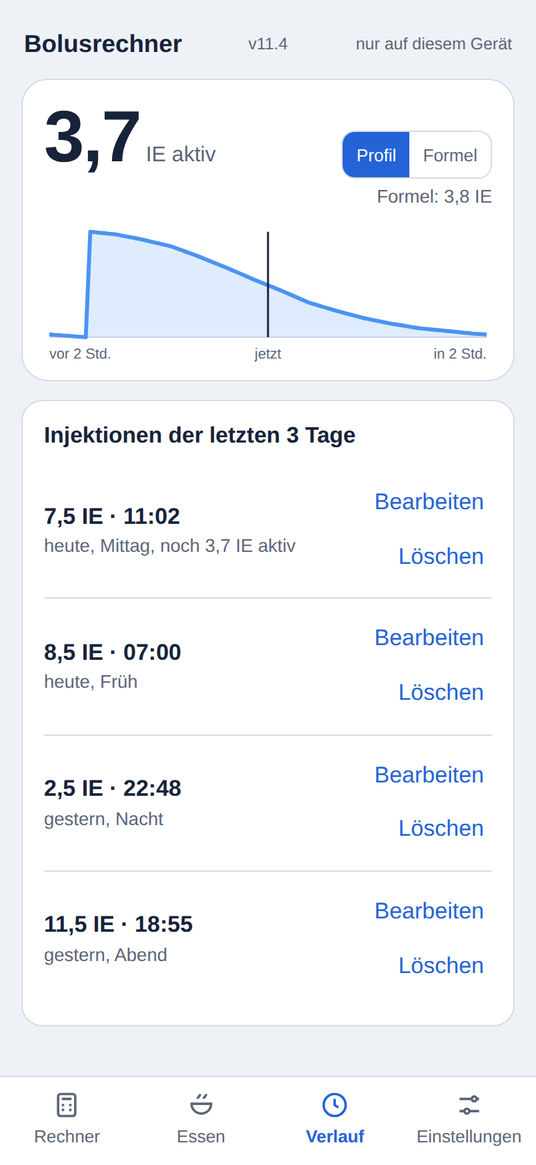
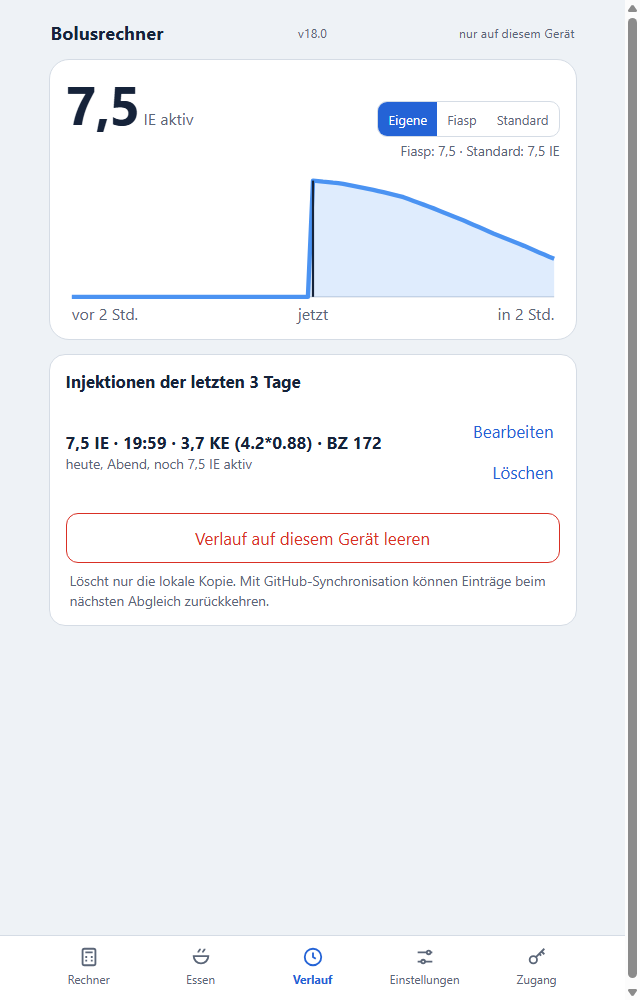
v18.0 + Doku

diff --git a/README.md b/README.md
@@ -11,7 +11,11 @@ Bolusrechner für schnell wirksames Insulin als Web-App für das iPhone. Läuft 
 |:---:|:---:|:---:|:---:|
 | <img src="screenshots/1-rechner.png" width="200" alt="Rechner mit Bolusvorschlag"> | <img src="screenshots/2-essen.png" width="200" alt="Mahlzeit zusammenstellen"> | <img src="screenshots/3-verlauf.png" width="200" alt="Verlauf der Injektionen"> | <img src="screenshots/4-einstellungen.png" width="200" alt="Insulin/Kohlenhydrat-Verhältnisse und Einstellungen"> |
 
-*Beispieldaten: 7,5 IE um 11:02, Abfrage um 12:40, BZ 172, KE als Formel `4,2*0,88`.*
+*Die Bilder zeigen Beispieldaten, keine persönlichen Werte. Im Rechnerbeispiel: BZ 172 mg/dl und KE-Formel `4,2*0,88`.*
+
+**Carb-API-Konfiguration importieren (Beispielseite):**
+
+<img src="screenshots/5-carb-import.png" width="480" alt="Import der lokalen Carb-API-Konfiguration mit Passwortfeld">
 
 ## Funktionen
 
@@ -28,10 +32,19 @@ Bolusrechner für schnell wirksames Insulin als Web-App für das iPhone. Läuft 
 - **Insulin/Kohlenhydrat-Verhältnisse** je Tageszeit frei benennbar, hinzufügen/entfernen, automatische Auswahl nach Uhrzeit
 - **KE-Eingabe mit Formeln**, z. B. `4,2*0,88`; verwendete Formeln werden mit dem Eintrag gespeichert, in der Historie angezeigt und auf andere Geräte synchronisiert
 - **Lebensmittelliste**, Mahlzeiten-Korb und Rezeptrechner (KE pro Stück)
-- **Verlauf** mit einstellbarer Aufbewahrung (Einstellungen → Verlauf, Standard 3 Tage, bis 365)
+- **Carb-Scanner** zur Erkennung von Kohlenhydraten aus Fotos; dieselbe Scanner-Logik wird von der App und der [Beispielseite](app-beispiel-v3.html) verwendet
+- **Verlauf** mit einstellbarer Aufbewahrung (Einstellungen → Verlauf, Standard 3 Tage, bis 365); „Verlauf auf diesem Gerät leeren“ löscht nur die lokale Kopie. Synchronisierte Einträge können beim nächsten Abgleich zurückkehren
 - **Synchronisation** zwischen Geräten über ein privates GitHub-Repository (Tab **Zugang** – Zugangsdaten sind getrennt von den gesicherten Daten)
 - **Glukose-Sensor** über eigenen REST-Dienst: Anzeige mit Trendpfeil, automatische Übernahme als BZ
-- **Sicherung** aller Daten als JSON-Datei (z. B. nach OneDrive), Wiederherstellen per Datei
+- **Datensicherung** der App-Daten als JSON-Datei (z. B. nach OneDrive), Wiederherstellen per Datei
+- **Browser-Speicher-Sicherung** optional verschlüsselt; daraus lassen sich auf der Beispielseite nur die Carb-API-Schlüssel übernehmen oder in der App die komplette lokale Konfiguration ersetzen
+
+## Sicherung und Import
+
+- **Normale Datensicherung** (Einstellungen → Sicherung) enthält App-Daten wie Einstellungen, Lebensmittel und Verlauf. API-Konfiguration und Zugangsdaten sind darin nicht enthalten.
+- **Browser-Speicher-Sicherung** (Zugang → Lokaler Browser-Speicher) exportiert alle lokalen Speicherwerte einschließlich Carb-API-Schlüsseln und Synchronisations-Zugangsdaten. Mit einem Passwort wird die Sicherung verschlüsselt; ohne Passwort ist die JSON-Datei unverschlüsselt.
+- **Selektiver Carb-Import:** `app-beispiel-v3.html` liest eine Browser-Speicher-Sicherung und übernimmt daraus nur die Carb-API-Konfiguration. Andere lokale Daten bleiben unverändert. Eine normale Datensicherung enthält diese Schlüssel nicht.
+- **Kompletter Import:** Die Wiederherstellung des Browser-Speichers in der App ersetzt den gesamten lokalen Speicher dieses Geräts. Dabei werden bestehende Einträge und Zugangsdaten durch die Inhalte der Sicherung ersetzt.
 
 ## Synchronisation zwischen Geräten (GitHub)
 
@@ -145,8 +158,14 @@ Werte älter als 15 Minuten werden grau dargestellt und nicht mehr in den Rechne
 
 | Datei | Zweck |
 |---|---|
-| `index.html` | die komplette App (HTML, CSS, JavaScript) |
-| `sw.js` | Service Worker für den Offline-Betrieb |
+| `index.html` | App-Struktur und Bereiche |
+| `app.js` | Rechner, Verlauf, Synchronisation und App-Verhalten |
+| `storage.js` | lokales Speichern, Carb-API-Konfiguration und Backup-Import |
+| `bolus-theme.css` | gemeinsames Erscheinungsbild für App und Beispielseite |
+| `carb-scanner-v3.js` | wiederverwendbare Carb-Scanner-Logik |
+| `carb-dialog-v3.html` | Dialog des Carb-Scanners |
+| `app-beispiel-v3.html` | Integration des Scanners und selektiver Import der Carb-API-Konfiguration |
+| `sw.js` | Service Worker und Precache für den Offline-Betrieb |
 | `manifest.webmanifest` | Name und Symbol für den Home-Bildschirm |
 | `icon-*.png` | App-Symbole |
 | `screenshots/` | Bilder für diese README (werden von der App nicht benötigt) |
@@ -161,31 +180,31 @@ Werte älter als 15 Minuten werden grau dargestellt und nicht mehr in den Rechne
 
 ## Neue Version veröffentlichen
 
-1. Änderungen an `index.html` vornehmen.
-2. In `index.html` die Versionsnummer anpassen: `var APP_VERSION = "11";`
-   - **neue Funktionen:** nächste ganze Zahl, z. B. `"11"` → `"12"`
-   - **Fehlerkorrekturen:** Unterversion, z. B. `"11"` → `"11.1"` → `"11.2"`
-   Die Nummer wird oben in der App angezeigt und sorgt dafür, dass das iPhone die neue Fassung lädt
-   (`sw.js` muss dafür nicht geändert werden).
-3. Commit und Push. GitHub Pages aktualisiert die Seite automatisch.
+1. Die Änderung in der passenden Datei vornehmen (`index.html`, `app.js`, `storage.js` oder den Carb-Dateien).
+2. `APP_VERSION` in `app.js` für die Veröffentlichung erhöhen (aktuell `18.0`). Der Wert wird auch an den Service Worker übergeben und erzeugt einen neuen Offline-Cache.
+3. Werden Offline-Dateien hinzugefügt oder entfernt, die Precache-Liste `FILES` in `sw.js` entsprechend anpassen.
+4. Commit und Push auf den von GitHub Pages verwendeten Branch. Pages veröffentlicht die neue Fassung automatisch.
 
 ## Lokal testen
 
 Am einfachsten mit einem lokalen Webserver, da beim Öffnen per Doppelklick (`file://`)
-Manifest und Service Worker nicht funktionieren:
+Manifest und Service Worker nicht funktionieren. Die App muss über HTTPS oder `localhost` geöffnet werden:
 
 - VS Code: Erweiterung **Live Server** → Rechtsklick auf `index.html` → „Open with Live Server“
-- oder: `python -m http.server` im Projektordner, dann `http://localhost:8000`
+- oder: `python -m http.server 3000` im Projektordner, dann `http://localhost:3000`
 
 iPhone-Größen in den Browser-Entwicklertools (F12 → Strg+Umschalt+M):
 iPhone 17 = 402 × 874, iPhone XR = 414 × 896.
 
+Für einen iPhone-Test über das Notebook muss die App über eine HTTPS-Adresse erreichbar sein, deren Zertifikat das iPhone vertraut. `localhost` auf dem iPhone bezeichnet das iPhone selbst, nicht das Notebook.
+
 ## Datenschutz
 
-Alle Daten (Einstellungen, Injektionen, Lebensmittel) liegen im Browser des Geräts.
-Nur wenn die Synchronisation eingerichtet ist, werden sie zusätzlich in **dein privates
-Daten-Repository** auf GitHub geschrieben – sonst sendet die App nichts an einen Server. Sicherungsdateien (`bolusrechner-*.json`) gehören
-**nicht** ins Repository und sind deshalb in `.gitignore` ausgeschlossen.
+Einstellungen, Verlauf, Lebensmittelliste und API-Konfiguration liegen im Browser des Geräts.
+Wenn die GitHub-Synchronisation eingerichtet ist, werden App-Daten zusätzlich in **dein privates
+Daten-Repository** geschrieben. Beim Carb-Scan wird das ausgewählte Foto an den konfigurierten API-Anbieter gesendet; prüfe dessen Datenschutzbedingungen.
+
+Die normale JSON-Datensicherung enthält keine API- oder Synchronisations-Zugangsdaten. Die Browser-Speicher-Sicherung enthält dagegen alle lokalen Speicherwerte. Ohne gesetztes Passwort ist sie unverschlüsselt; verschlüssele sie vor dem Ablegen oder Teilen. Sicherungsdateien (`bolusrechner-*.json` und `.bolusenc`) gehören **nicht** ins Repository und sind deshalb in `.gitignore` ausgeschlossen.
 
 ## Lizenz
 
